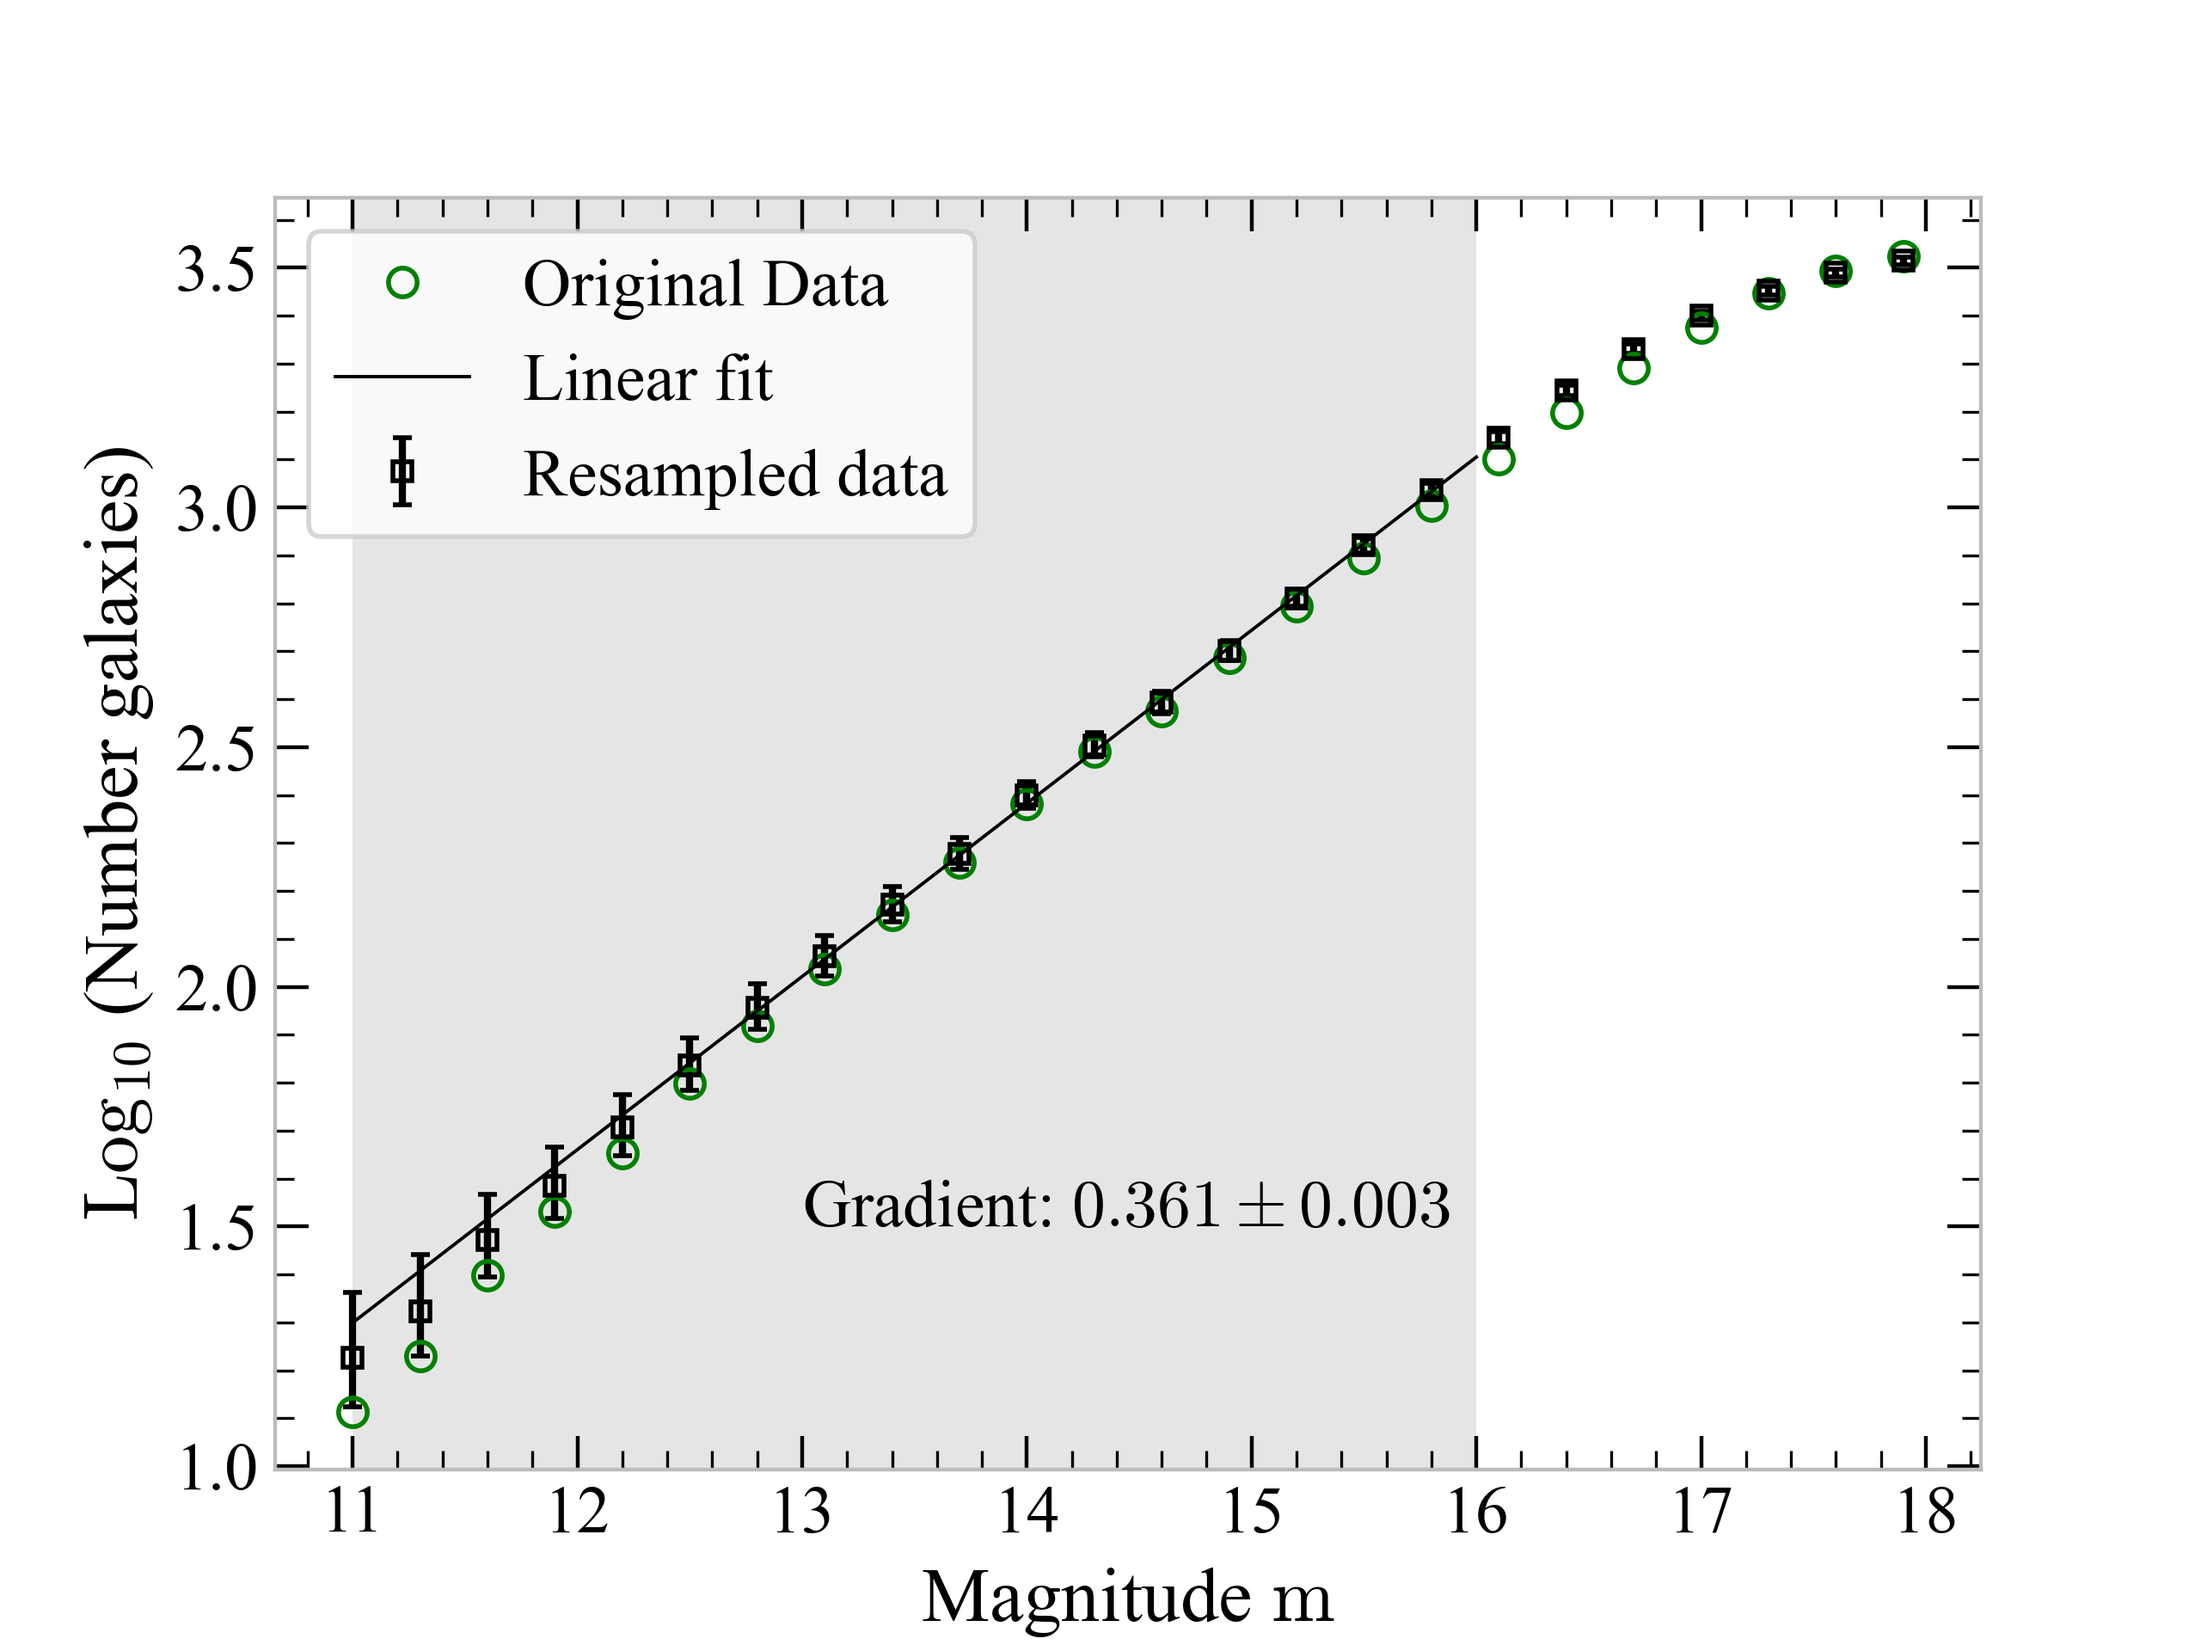
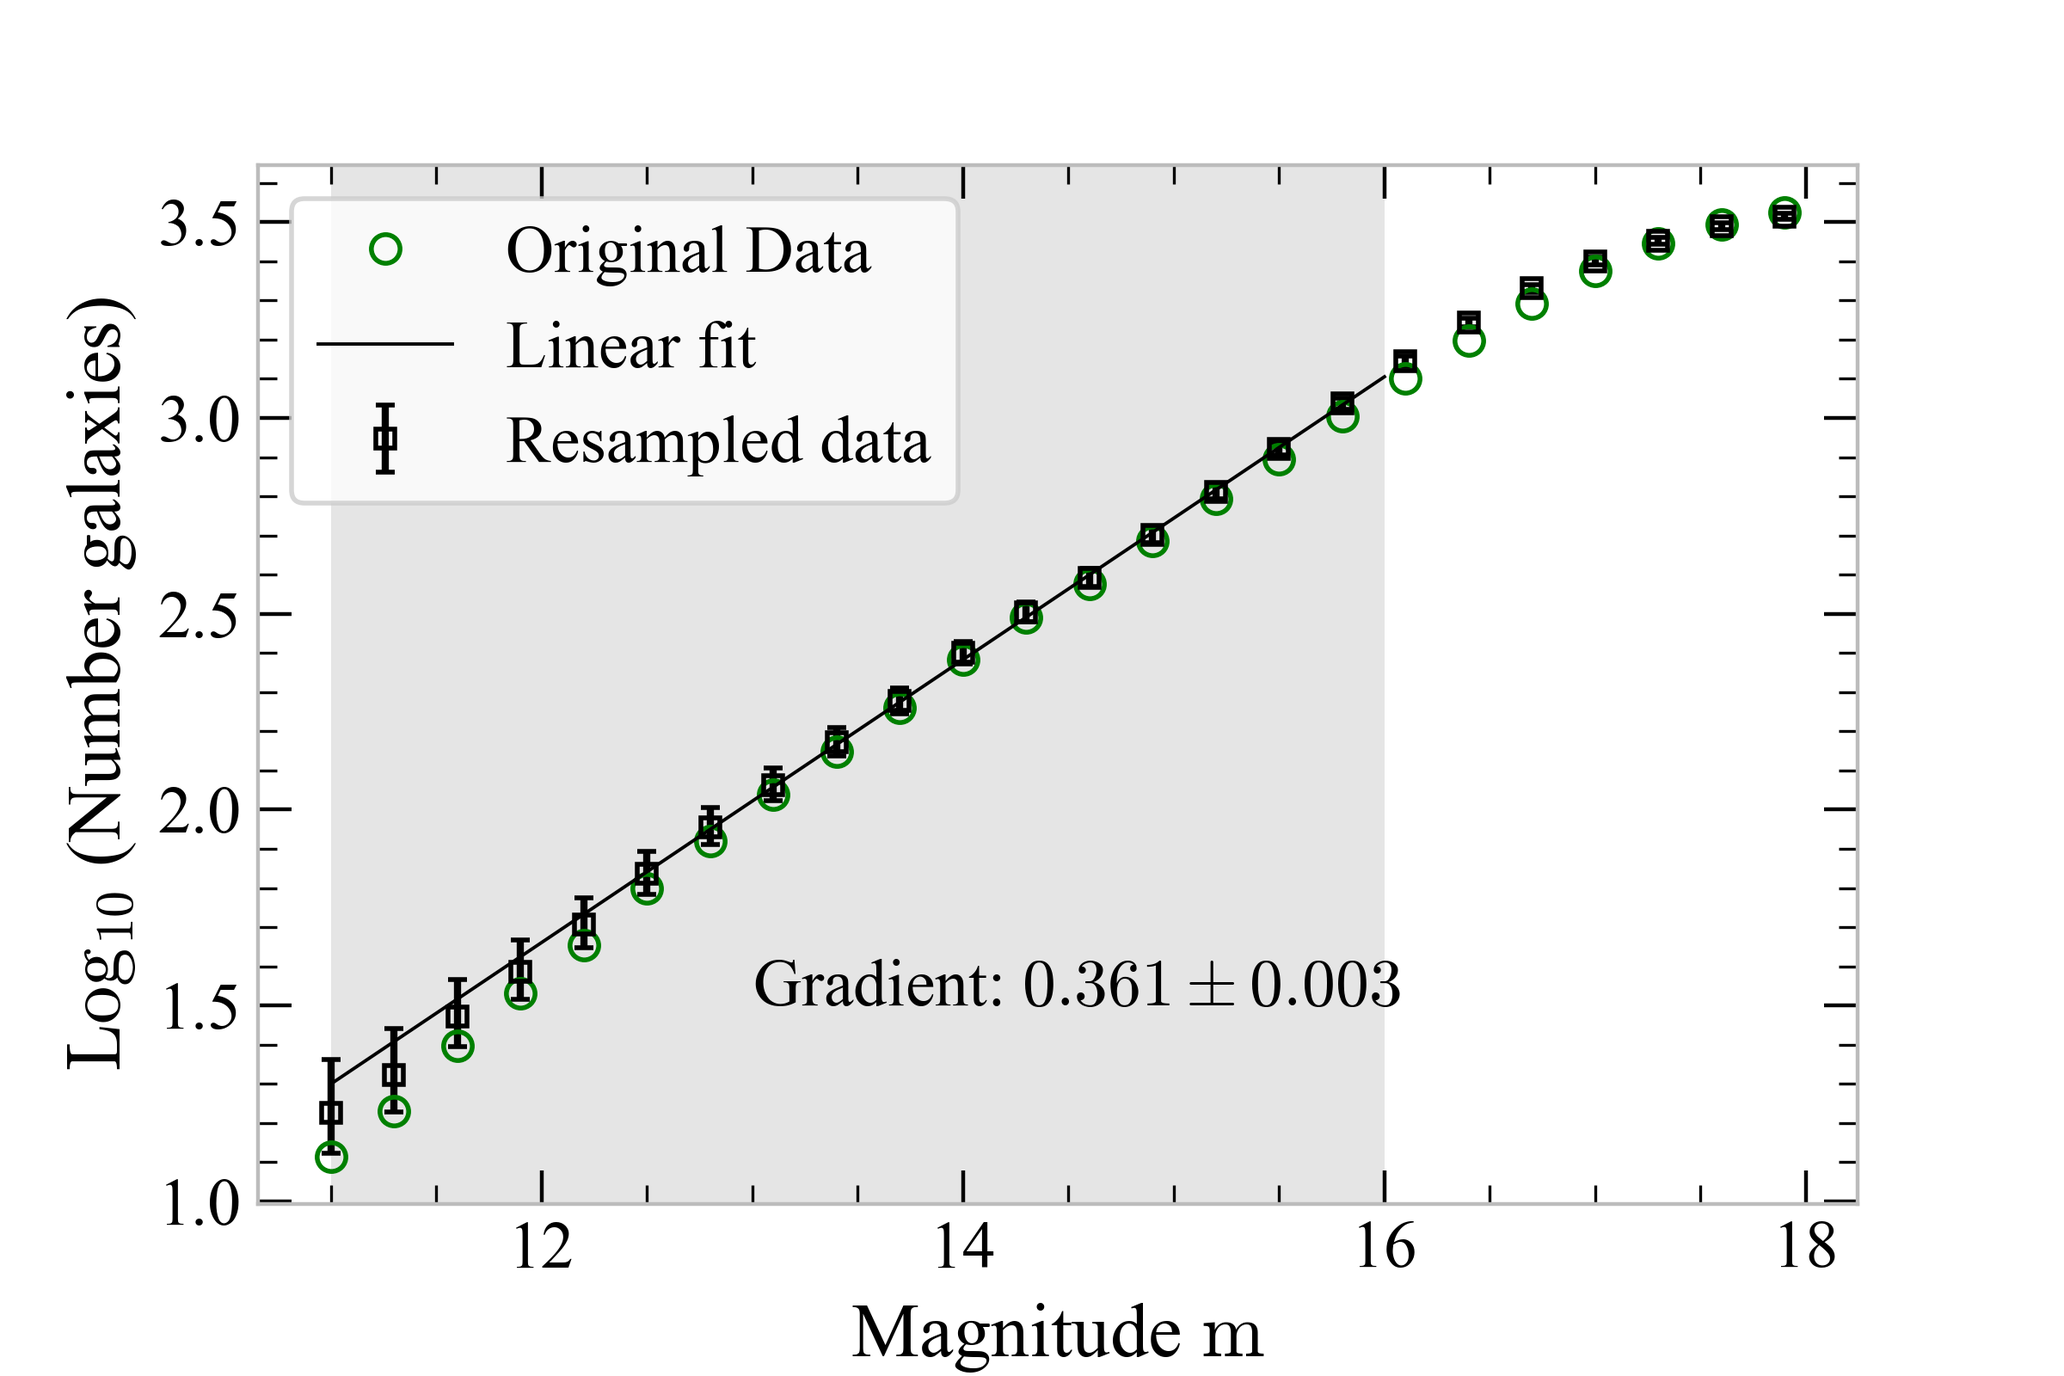
code to generate random samples

diff --git a/galaxy_detection/simulate_distribution.py b/galaxy_detection/simulate_distribution.py
@@ -1,0 +1,48 @@
+"""
+Contains the function that generates random samples. Used to check the
+ipothesis of the bias from the border
+"""
+import numpy as np
+import numpy.random
+import scipy as sp
+import scipy.interpolate
+import sys 
+import matplotlib.pyplot as plt
+plt.style.use('mystyle-2.mplstyle')
+
+def get_points(N, grad, intercept, lower_boundary, upper_boundary):
+
+    def line(m):
+        return m * grad + intercept
+    
+    normalisation = 1/(10**(line(upper_boundary))- 10**(line(lower_boundary)))
+
+    uniform_random  = np.random.uniform(size = N)
+    random_magnitude = (np.log10(uniform_random/normalisation + 10**(line(lower_boundary))) \
+                        - intercept)/grad
+    return random_magnitude
+
+
+low = 7
+high = 20
+a = get_points(100000,0.36111444, -2.67273998,low,high)
+
+binrange = np.arange(low,high,0.3)
+
+totalN = []
+
+for bn in binrange:
+    totalN.append(len(np.argwhere(a <= bn)))
+totalN = np.array(totalN)
+print(f'total N: {totalN}')
+
+skipfirst = 5
+binrange = binrange[5:]
+totalN = totalN[5:]
+
+plt.plot(binrange,np.log10(totalN))
+
+
+    
+    
+    

diff --git a/galaxy_detection/Results_analysis.py b/galaxy_detection/Results_analysis.py
@@ -301,9 +301,29 @@ ax.set_ylabel(r'$\mathrm{Log_{10}}$ (Number galaxies)')
 plt.savefig("galaxy_brightness_analysis_results/Histogram_Numbers_errorbars.png")
 
 
-plt.show()
+# plt.show()
 
 
+from simulate_distribution import get_points
+low = 0
+high = 18
+
+a = get_points(3837*100,0.36111444, -2.67273998,low,high)
+
+binrange = np.arange(11,high,0.3)
+
+totalN = []
+
+for bn in binrange:
+    totalN.append(len(np.argwhere(a <= bn)))
+totalN = np.array(totalN)
+print(f'total N: {totalN}')
+
+skipfirst = 0
+binrange = binrange[skipfirst:]
+totalN = totalN[skipfirst:]
+
+plt.plot(binrange,np.log10(totalN)-2)
 
 
 #%%
